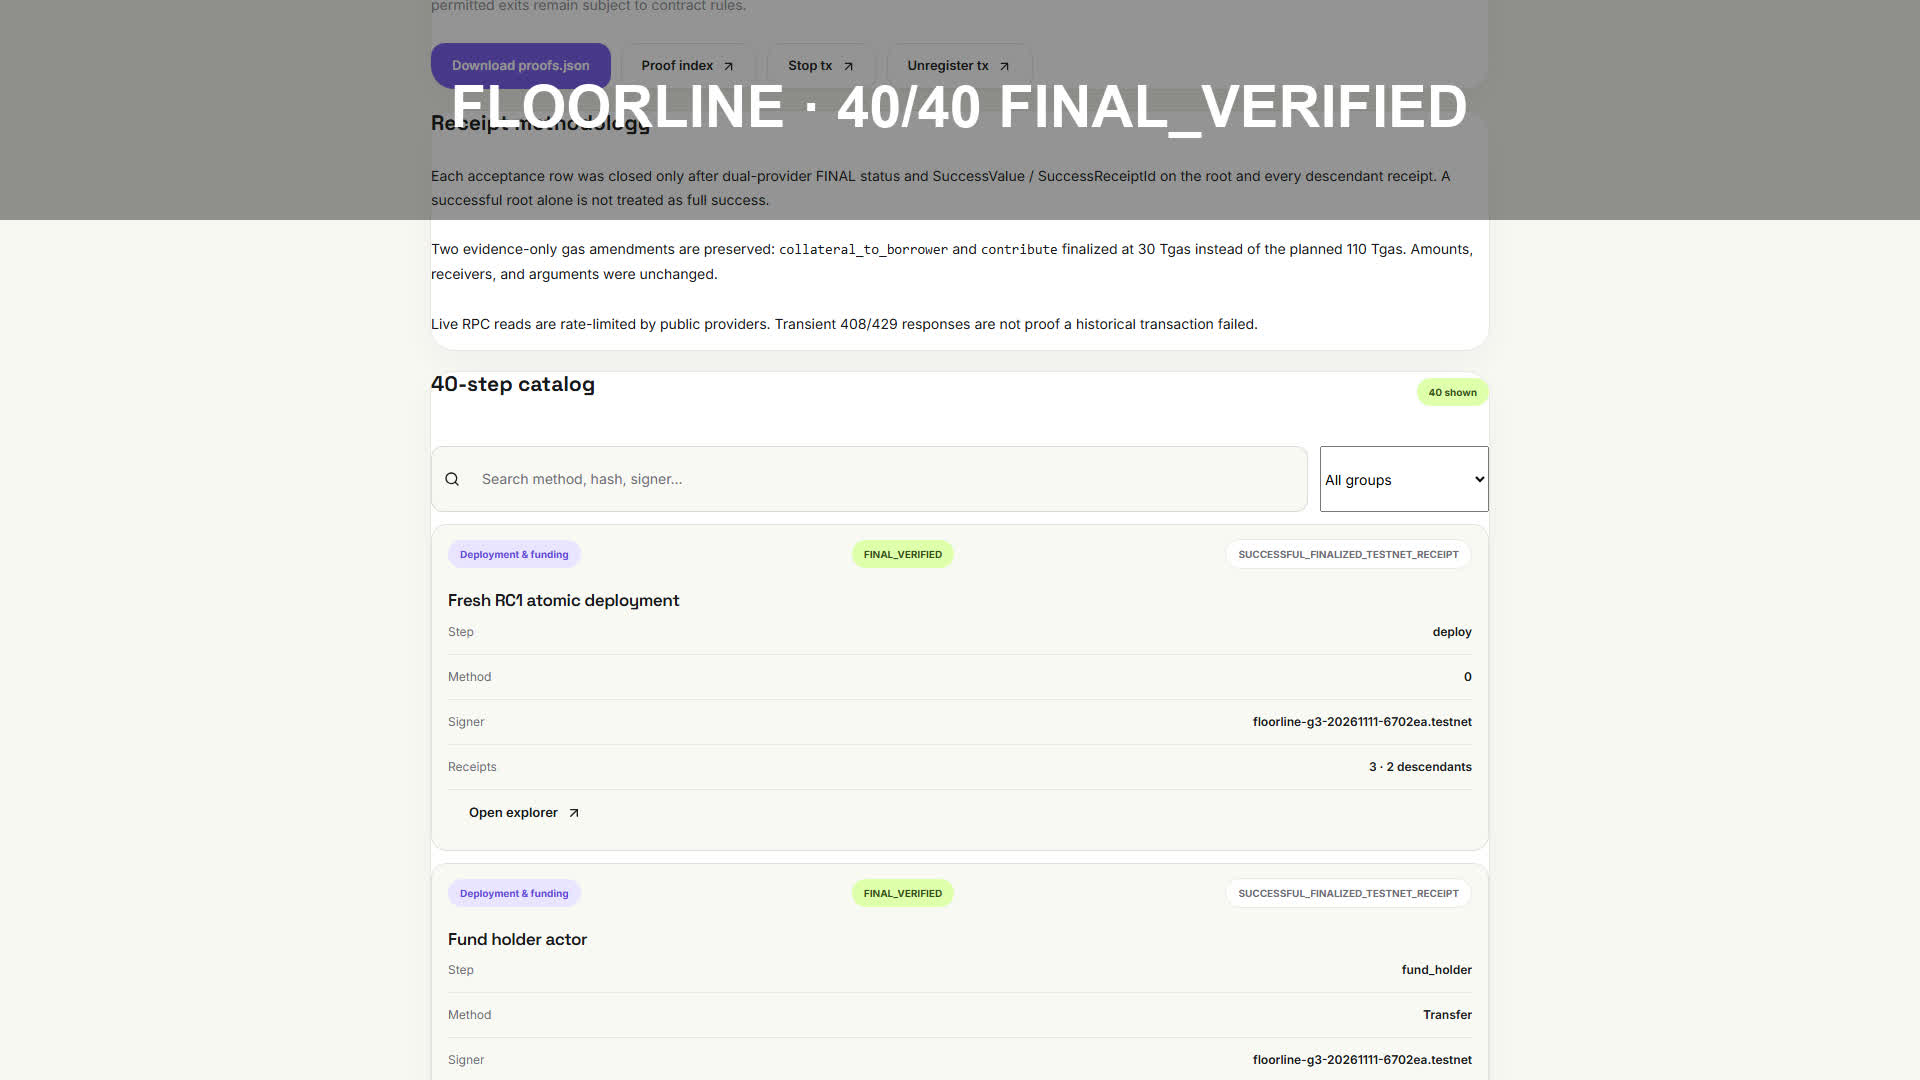
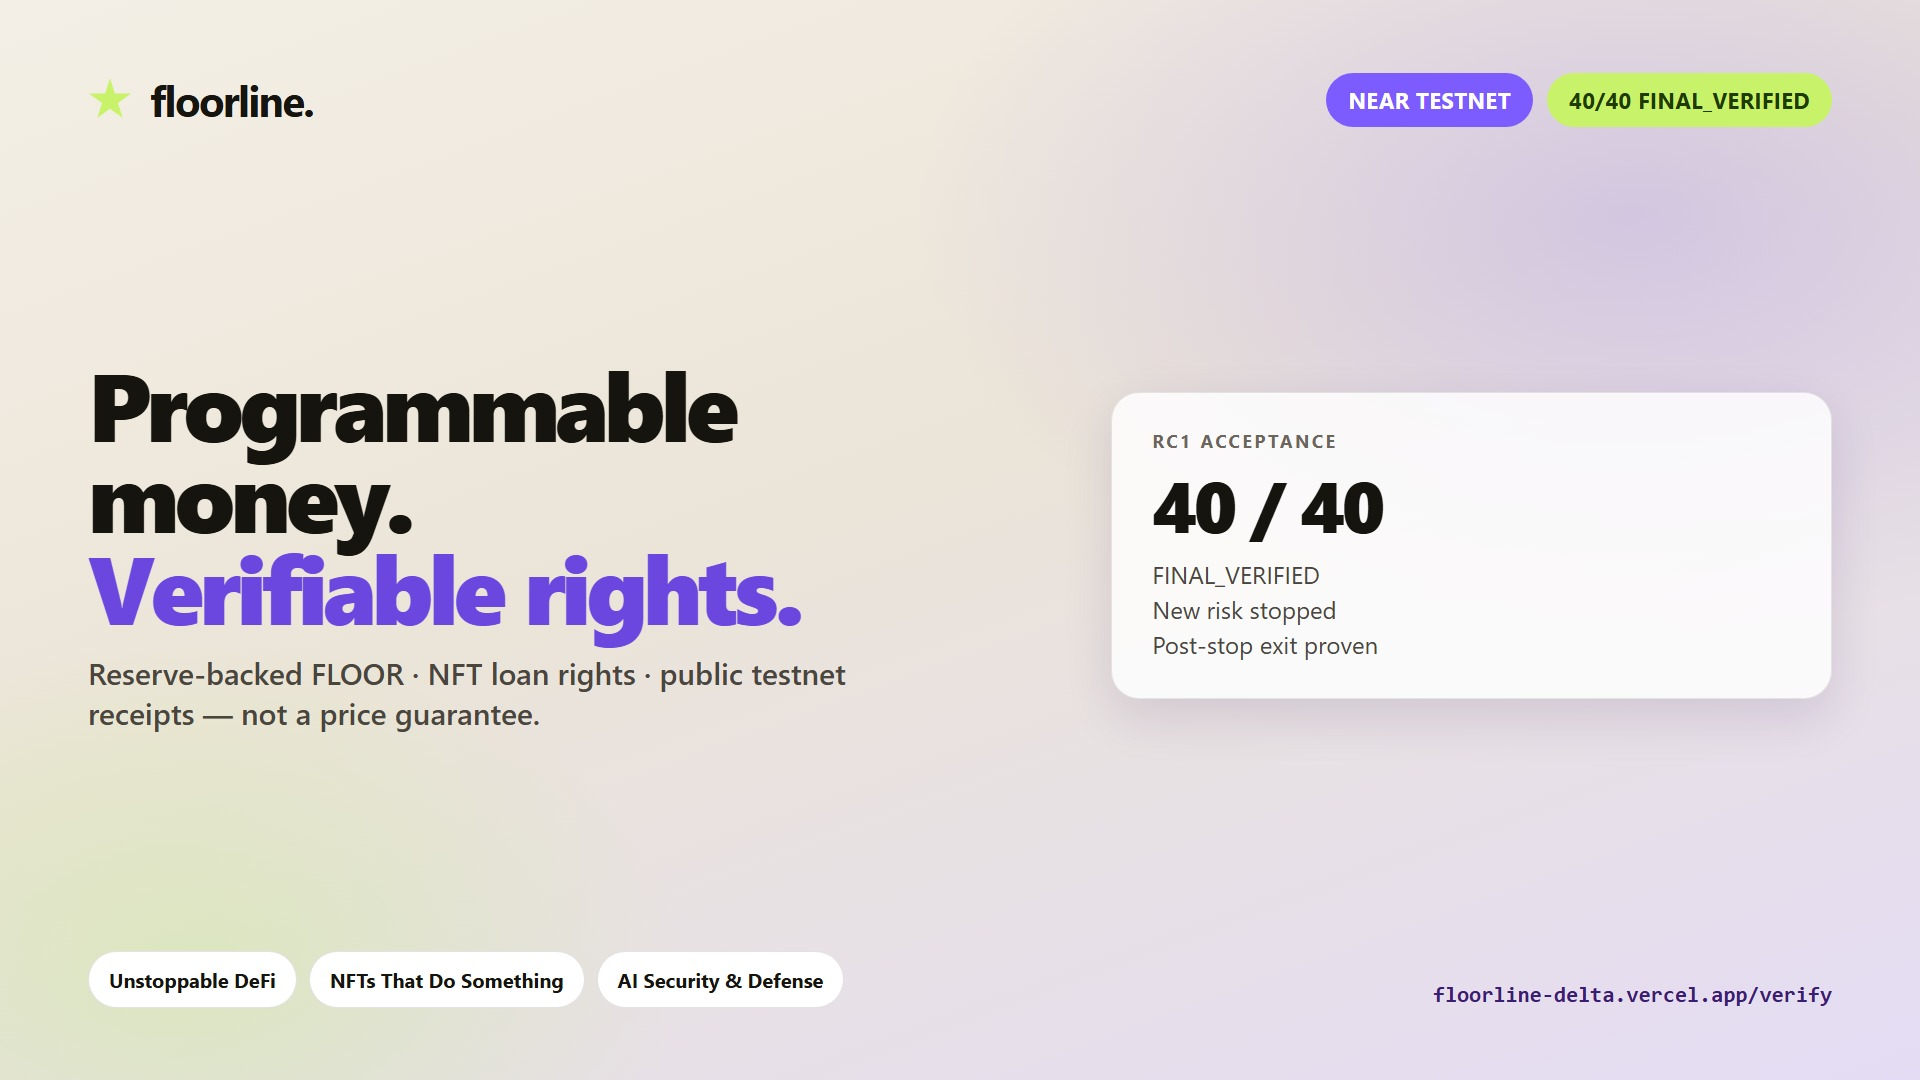
docs: replace demo poster with branded X thumbnail
Designed 1920x1080 Floorline poster for social upload; Cursor cannot preview MP4 in-editor.

diff --git a/docs/demo/video/thumb-source.html b/docs/demo/video/thumb-source.html
@@ -1,0 +1,168 @@
+<!doctype html>
+<html>
+<head>
+<meta charset="utf-8" />
+<style>
+  @font-face {
+    font-family: "Space Grotesk";
+    src: local("Space Grotesk"), local("Segoe UI");
+  }
+  * { box-sizing: border-box; }
+  html, body {
+    margin: 0;
+    width: 1920px;
+    height: 1080px;
+    overflow: hidden;
+    font-family: "Segoe UI", Inter, Arial, sans-serif;
+    color: #16140f;
+    background:
+      radial-gradient(1200px 700px at 85% 20%, rgba(124, 92, 255, 0.22), transparent 60%),
+      radial-gradient(900px 600px at 10% 90%, rgba(183, 240, 110, 0.28), transparent 55%),
+      linear-gradient(160deg, #f4efe6 0%, #ebe4d8 45%, #e4dcf4 100%);
+  }
+  .frame {
+    width: 1920px;
+    height: 1080px;
+    padding: 72px 88px;
+    display: grid;
+    grid-template-rows: auto 1fr auto;
+    position: relative;
+  }
+  .top {
+    display: flex;
+    justify-content: space-between;
+    align-items: center;
+  }
+  .brand {
+    display: flex;
+    align-items: center;
+    gap: 18px;
+    font-size: 42px;
+    font-weight: 700;
+    letter-spacing: -0.04em;
+  }
+  .star {
+    width: 44px;
+    height: 44px;
+    background: #c8f26a;
+    clip-path: polygon(50% 0%, 61% 35%, 98% 35%, 68% 57%, 79% 91%, 50% 70%, 21% 91%, 32% 57%, 2% 35%, 39% 35%);
+  }
+  .pills { display: flex; gap: 14px; }
+  .pill {
+    border-radius: 999px;
+    padding: 12px 22px;
+    font-size: 22px;
+    font-weight: 700;
+    letter-spacing: 0.02em;
+  }
+  .pill.violet { background: #7c5cff; color: #fff; }
+  .pill.lime { background: #c8f26a; color: #1f3b00; }
+  .pill.ink { background: rgba(22,20,15,0.08); color: #16140f; }
+  .hero {
+    display: grid;
+    grid-template-columns: 1.15fr 0.85fr;
+    gap: 48px;
+    align-items: center;
+    padding: 24px 0 12px;
+  }
+  h1 {
+    margin: 0 0 22px;
+    font-size: 96px;
+    line-height: 0.95;
+    letter-spacing: -0.05em;
+    font-weight: 800;
+  }
+  h1 span { color: #6b47e0; }
+  .sub {
+    margin: 0;
+    max-width: 820px;
+    font-size: 30px;
+    line-height: 1.35;
+    color: #4a463e;
+    font-weight: 500;
+  }
+  .proof-card {
+    background: rgba(255,255,255,0.82);
+    border: 1px solid rgba(22,20,15,0.1);
+    border-radius: 28px;
+    padding: 36px 40px;
+    box-shadow: 0 18px 50px rgba(40, 20, 80, 0.12);
+  }
+  .proof-card .label {
+    font-size: 18px;
+    font-weight: 700;
+    letter-spacing: 0.14em;
+    text-transform: uppercase;
+    color: #6b655c;
+    margin-bottom: 14px;
+  }
+  .proof-card .big {
+    font-size: 72px;
+    font-weight: 800;
+    letter-spacing: -0.04em;
+    line-height: 1;
+    margin-bottom: 18px;
+  }
+  .proof-card .meta {
+    font-size: 24px;
+    color: #4a463e;
+    line-height: 1.45;
+  }
+  .bottom {
+    display: flex;
+    justify-content: space-between;
+    align-items: end;
+    gap: 24px;
+  }
+  .tracks {
+    display: flex;
+    flex-wrap: wrap;
+    gap: 12px;
+  }
+  .track {
+    background: #fff;
+    border: 1px solid rgba(22,20,15,0.12);
+    border-radius: 999px;
+    padding: 14px 20px;
+    font-size: 20px;
+    font-weight: 650;
+  }
+  .url {
+    font-family: ui-monospace, Consolas, monospace;
+    font-size: 22px;
+    color: #3b1d73;
+    font-weight: 700;
+  }
+</style>
+</head>
+<body>
+  <div class="frame">
+    <div class="top">
+      <div class="brand"><div class="star"></div>floorline.</div>
+      <div class="pills">
+        <div class="pill violet">NEAR TESTNET</div>
+        <div class="pill lime">40/40 FINAL_VERIFIED</div>
+      </div>
+    </div>
+    <div class="hero">
+      <div>
+        <h1>Programmable money.<br/><span>Verifiable rights.</span></h1>
+        <p class="sub">Reserve-backed FLOOR · NFT loan rights · public testnet receipts — not a price guarantee.</p>
+      </div>
+      <div class="proof-card">
+        <div class="label">RC1 acceptance</div>
+        <div class="big">40 / 40</div>
+        <div class="meta">FINAL_VERIFIED<br/>New risk stopped<br/>Post-stop exit proven</div>
+      </div>
+    </div>
+    <div class="bottom">
+      <div class="tracks">
+        <div class="track">Unstoppable DeFi</div>
+        <div class="track">NFTs That Do Something</div>
+        <div class="track">AI Security &amp; Defense</div>
+      </div>
+      <div class="url">floorline-delta.vercel.app/verify</div>
+    </div>
+  </div>
+</body>
+</html>
